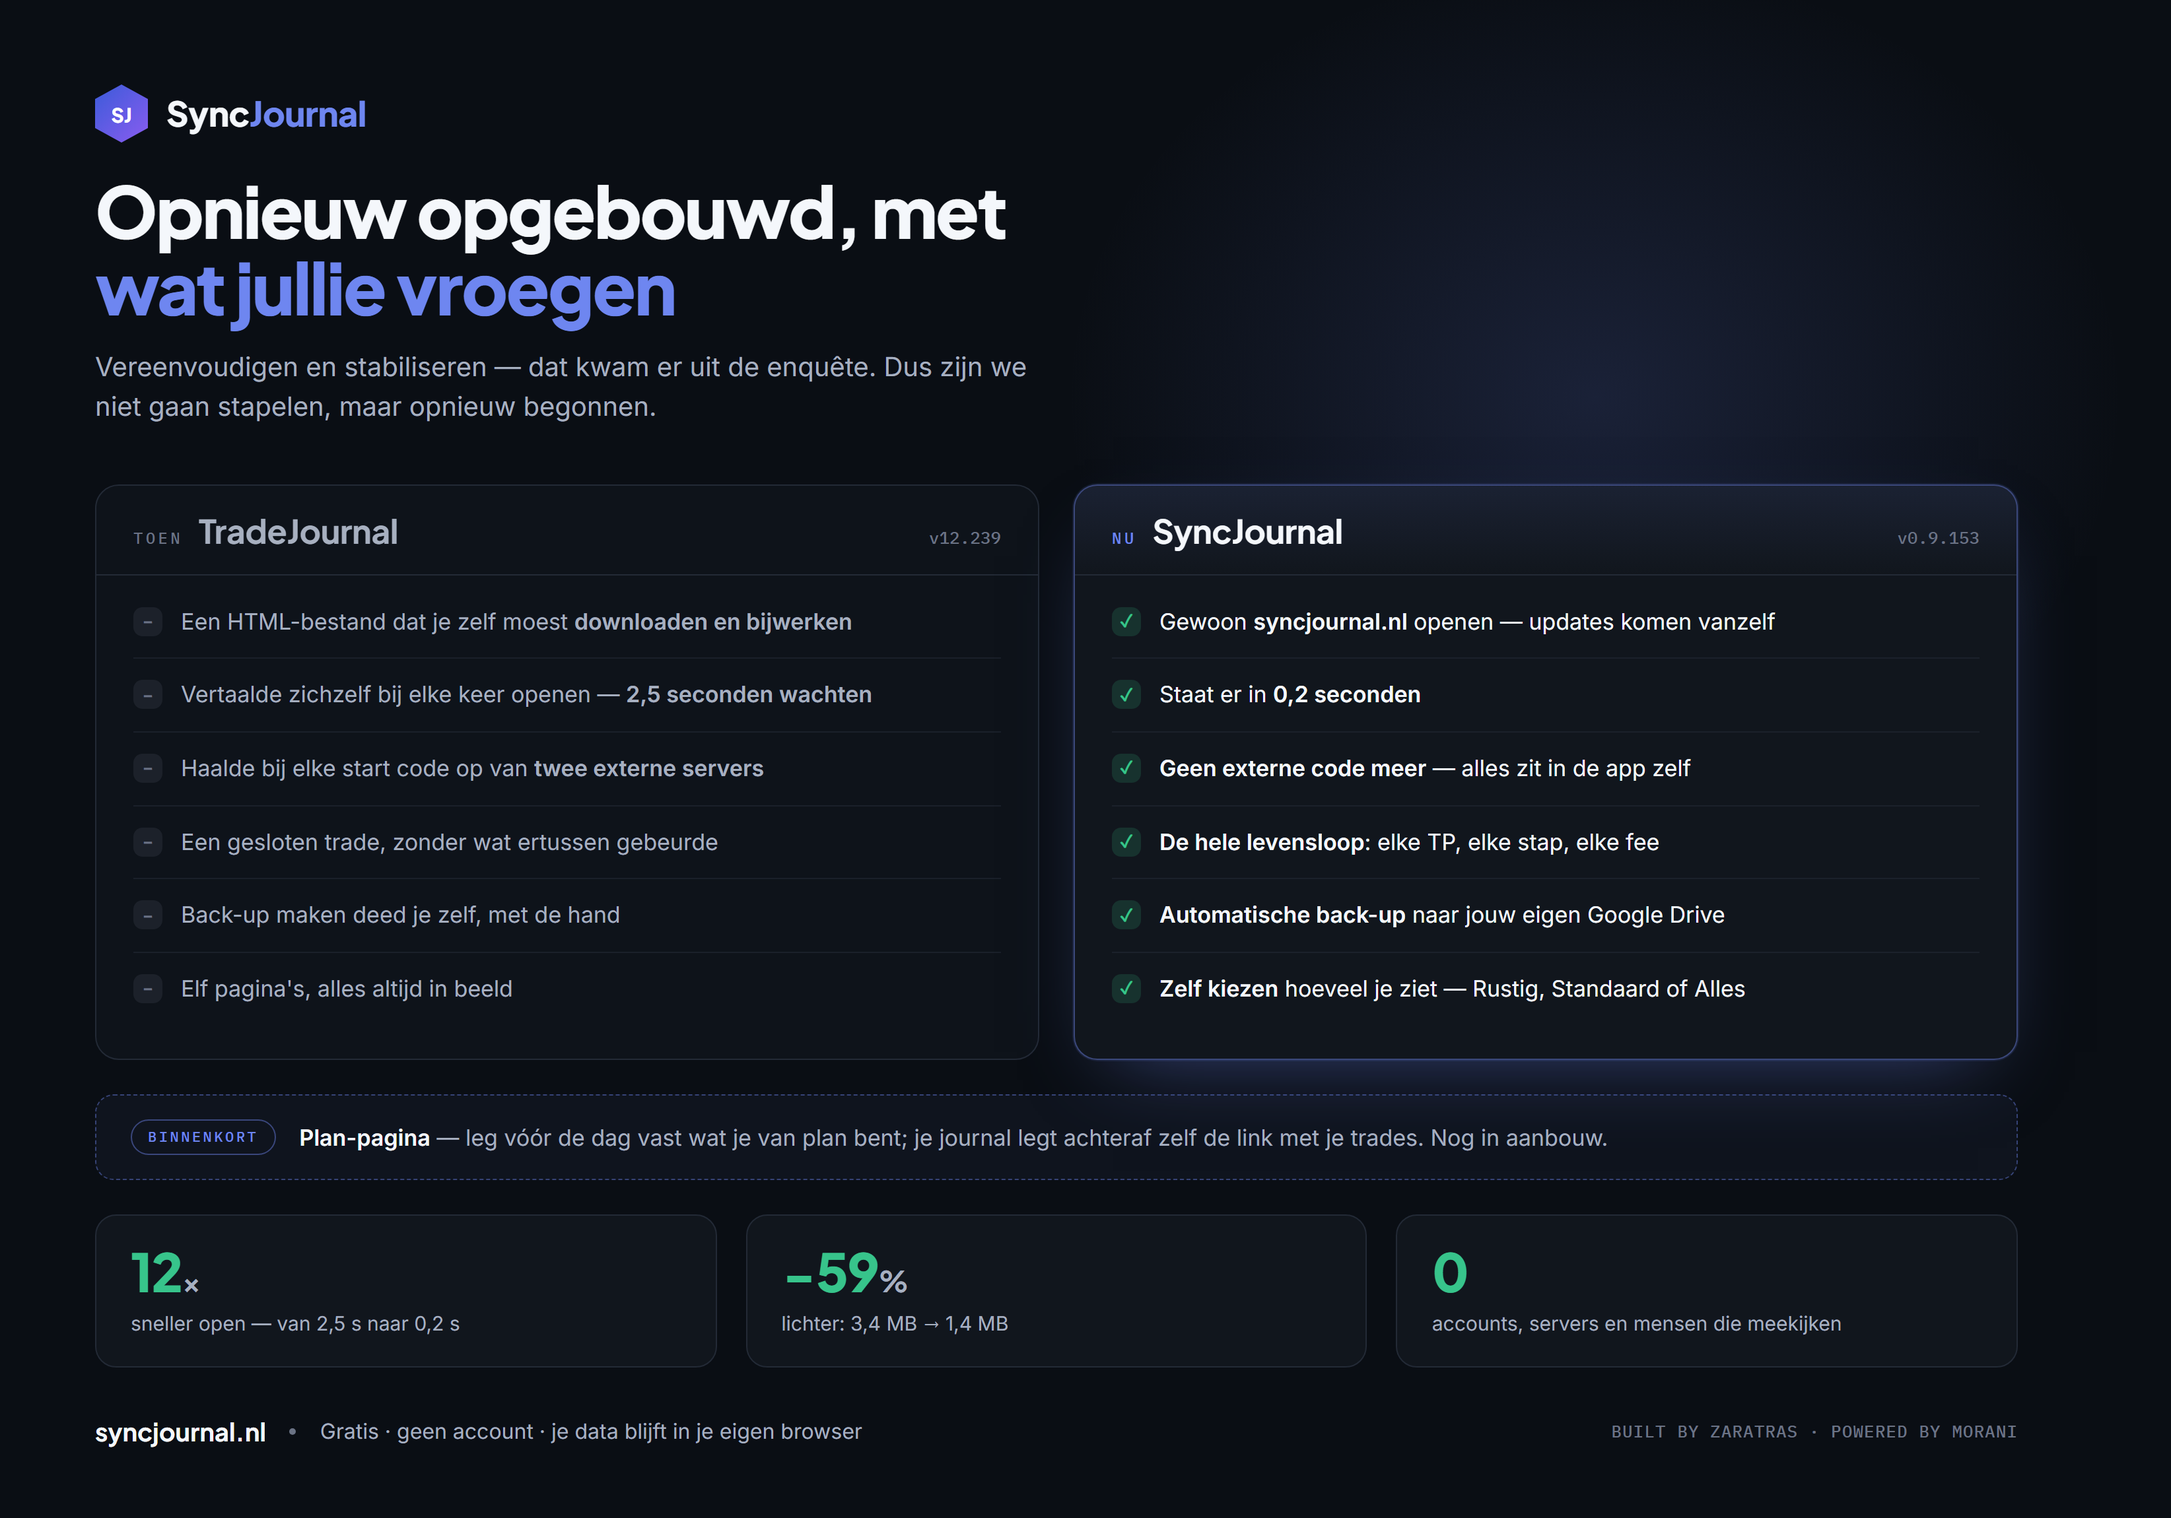
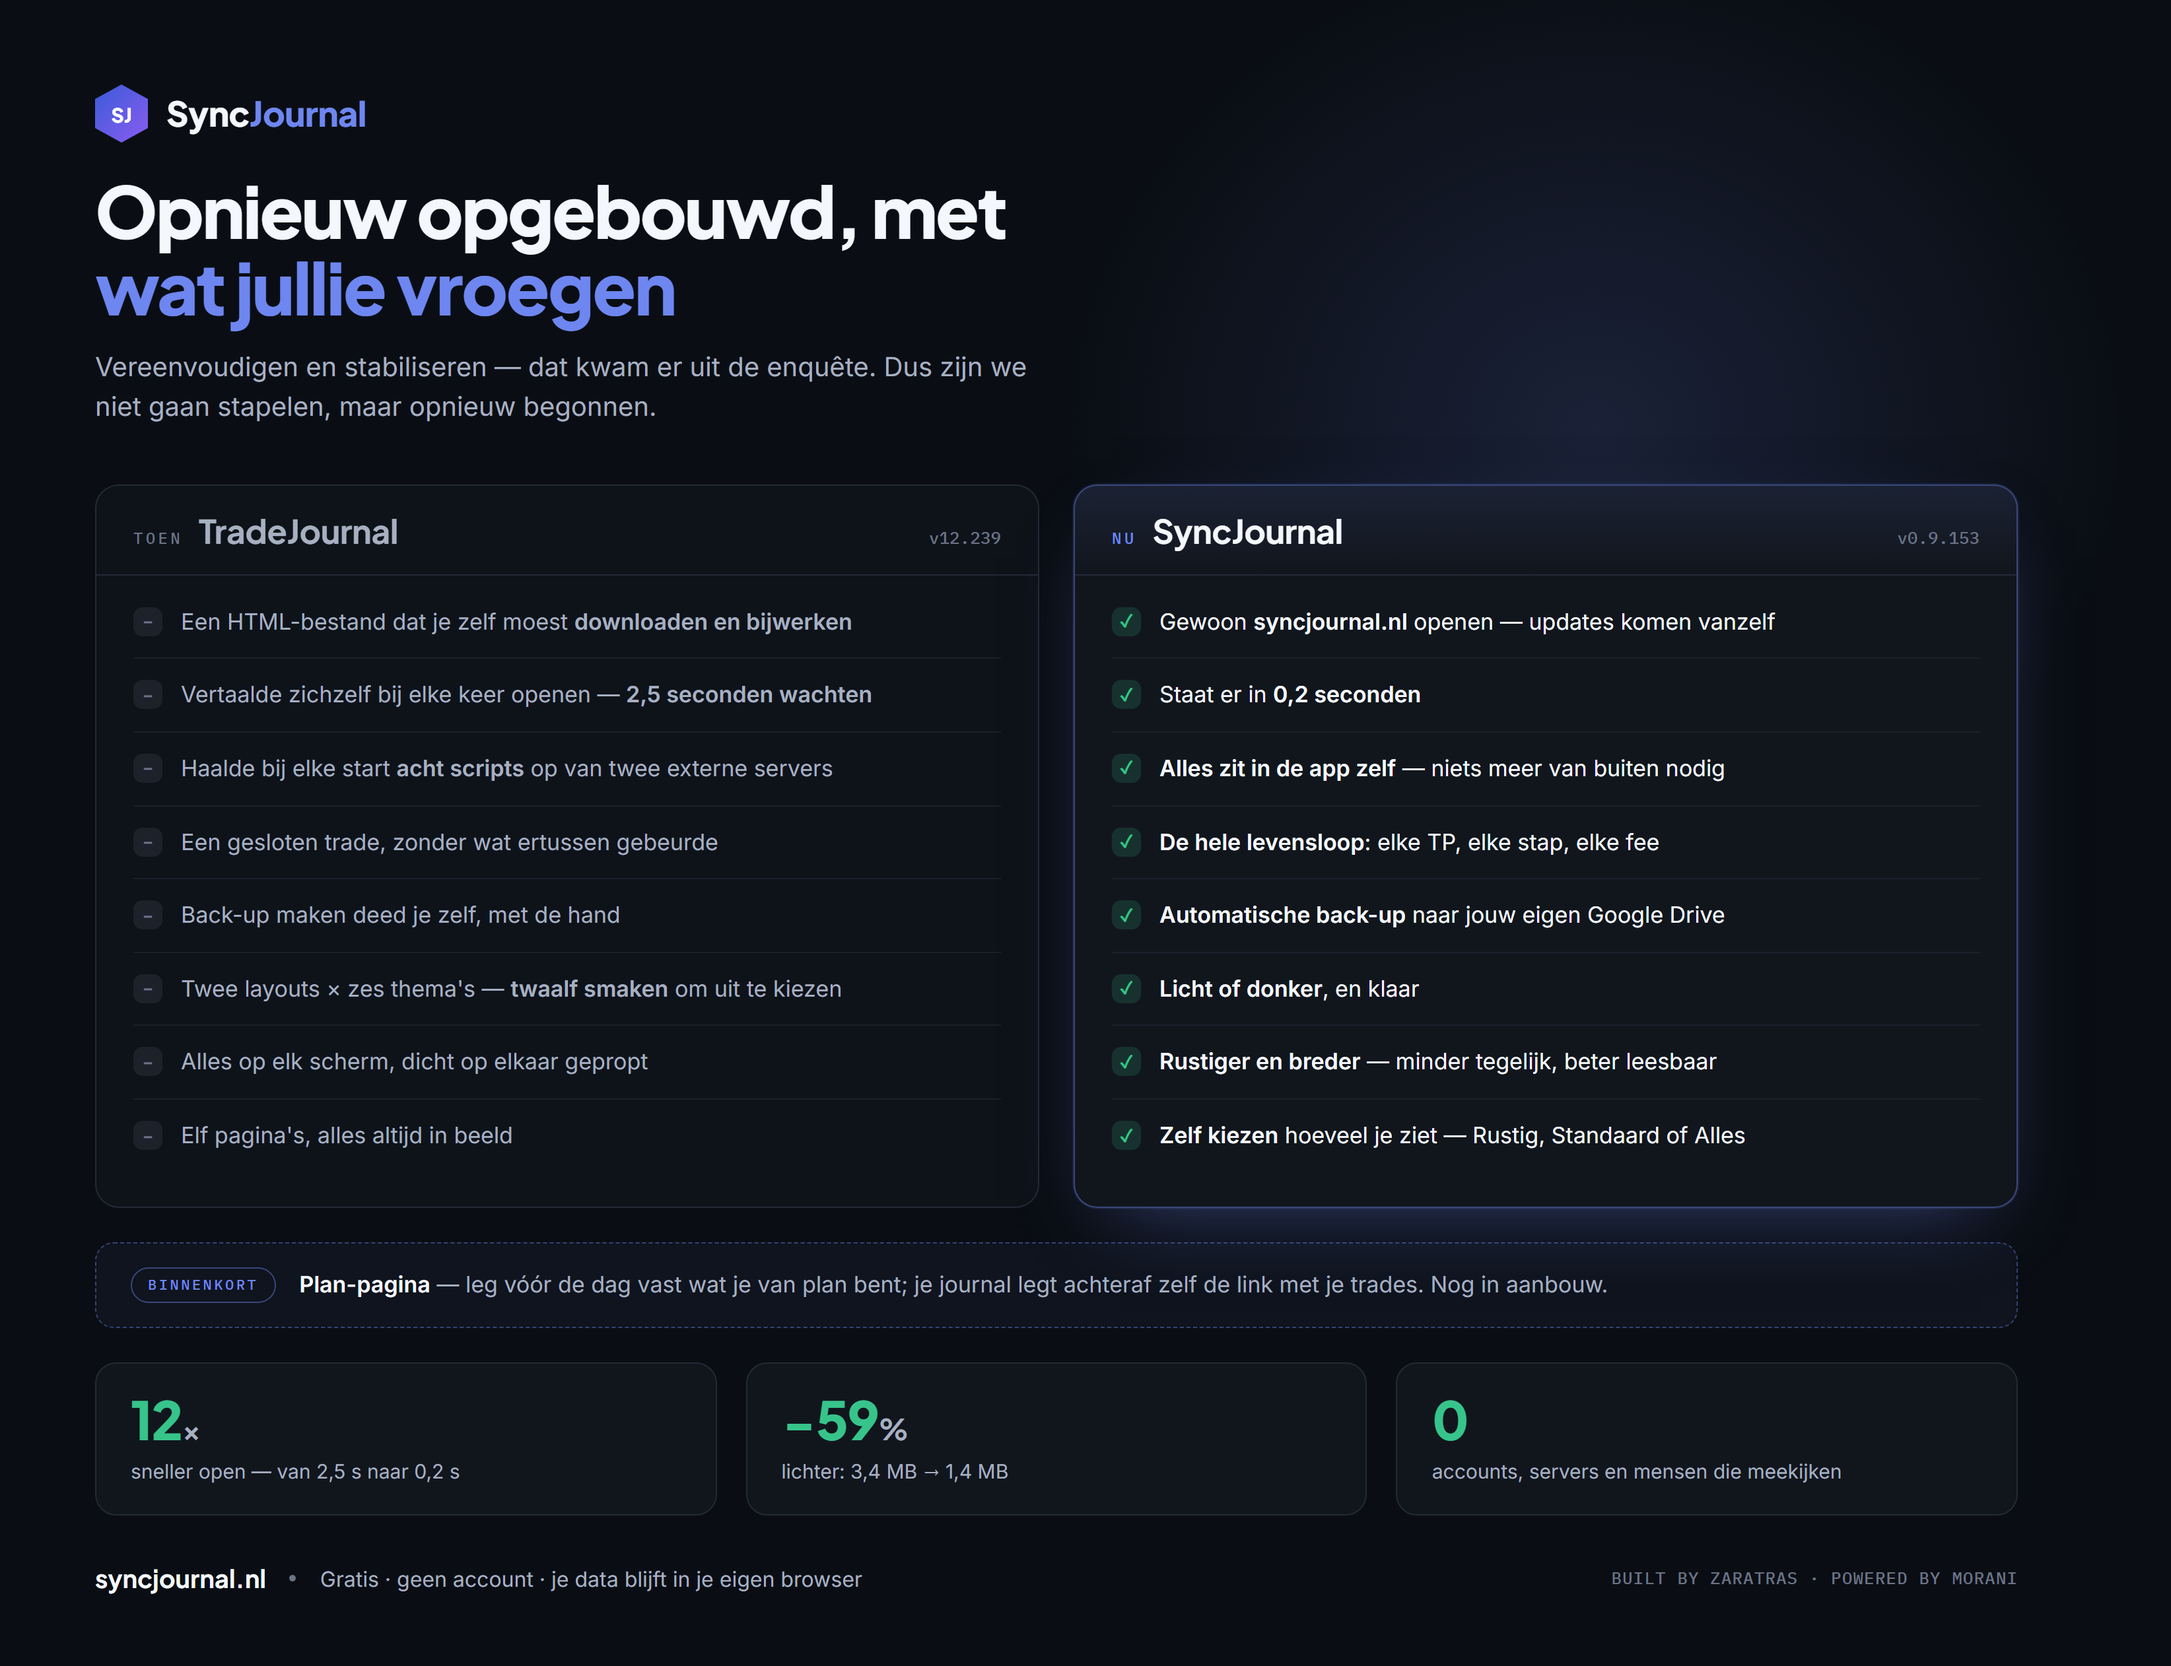
docs: Denny's two additions, and the script count made exact
Two pairs added, both from Denny and both verified against the code:

- Themes. The old journal had layout standard or premium, each with six themes
  (sync, classic, aurora, light, parchment, daylight) -- twelve combinations.
  SyncJournal has setTheme('light') and setTheme('dark'). Framed as a gain rather
  than a loss: twelve flavours versus light or dark, and done.
- Density. Everything on every screen, packed together, versus calmer and wider.
  That one is a design choice rather than a code fact, and it is exactly what the
  survey asked for, so it sits well under the headline.

Also made the dependency line exact. I had written "code from two external servers",
which Denny rightly questioned since the old app is a single HTML file. It is -- and
that single file pulls eight scripts: React, React-DOM, Chart.js, jsPDF, html2canvas
and Babel from cdnjs, xlsx and SortableJS from jsdelivr. Eight to one is a stronger
and more accurate claim than the one I had.

diff --git a/demos/release-vergelijking.html b/demos/release-vergelijking.html
@@ -107,9 +107,11 @@
       <ul>
         <li><span class="ic">–</span><span>Een HTML-bestand dat je zelf moest <b>downloaden en bijwerken</b></span></li>
         <li><span class="ic">–</span><span>Vertaalde zichzelf bij elke keer openen — <b>2,5 seconden wachten</b></span></li>
-        <li><span class="ic">–</span><span>Haalde bij elke start code op van <b>twee externe servers</b></span></li>
+        <li><span class="ic">–</span><span>Haalde bij elke start <b>acht scripts</b> op van twee externe servers</span></li>
         <li><span class="ic">–</span><span>Een gesloten trade, zonder wat ertussen gebeurde</span></li>
         <li><span class="ic">–</span><span>Back-up maken deed je zelf, met de hand</span></li>
+        <li><span class="ic">–</span><span>Twee layouts × zes thema's — <b>twaalf smaken</b> om uit te kiezen</span></li>
+        <li><span class="ic">–</span><span>Alles op elk scherm, dicht op elkaar gepropt</span></li>
         <li><span class="ic">–</span><span>Elf pagina's, alles altijd in beeld</span></li>
       </ul>
     </section>
@@ -123,9 +125,11 @@
       <ul>
         <li><span class="ic">✓</span><span class="toon">Gewoon <b>syncjournal.nl</b> openen — updates komen vanzelf</span></li>
         <li><span class="ic">✓</span><span class="toon">Staat er in <b>0,2 seconden</b></span></li>
-        <li><span class="ic">✓</span><span class="toon"><b>Geen externe code meer</b> — alles zit in de app zelf</span></li>
+        <li><span class="ic">✓</span><span class="toon"><b>Alles zit in de app zelf</b> — niets meer van buiten nodig</span></li>
         <li><span class="ic">✓</span><span class="toon"><b>De hele levensloop</b>: elke TP, elke stap, elke fee</span></li>
         <li><span class="ic">✓</span><span class="toon"><b>Automatische back-up</b> naar jouw eigen Google Drive</span></li>
+        <li><span class="ic">✓</span><span class="toon"><b>Licht of donker</b>, en klaar</span></li>
+        <li><span class="ic">✓</span><span class="toon"><b>Rustiger en breder</b> — minder tegelijk, beter leesbaar</span></li>
         <li><span class="ic">✓</span><span class="toon"><b>Zelf kiezen</b> hoeveel je ziet — Rustig, Standaard of Alles</span></li>
       </ul>
     </section>

diff --git a/docs/discord-release-syncjournal.md b/docs/discord-release-syncjournal.md
@@ -17,6 +17,10 @@ Wat je meteen merkt: hij is **12× sneller open** — 0,2 seconden in plaats van
 meer een bestand te downloaden, want updates komen vanzelf. En je ziet nu **de hele levensloop van
 een positie**: elke TP, elke stap en elke fee, in plaats van alleen het eindresultaat.
 
+Het grootste verschil zie je meteen: waar de oude journal alles op elk scherm propte, is het nu
+**rustiger en breder** — minder tegelijk, beter leesbaar. En in plaats van twee layouts met elk zes
+thema's is het simpelweg **licht of donker**.
+
 Nieuw is ook de **Google Drive-koppeling**: de app maakt een map *SyncJournal* in **jouw** Drive en
 zet daar automatisch je backups neer — wij kunnen daar niet bij. Daarmee is je journal niet langer
 alleen je browser, en kun je op een andere computer verder waar je gebleven was.
@@ -74,7 +78,8 @@ Morgenavond loop ik het live met jullie door. 📓
 |---|---|
 | 12× sneller (2,5 s → 0,2 s) | Gemeten 28-09-2026 met Playwright, beide apps, netwerk aan, twee metingen per app |
 | 3,4 MB → 1,4 MB | Bestandsgrootte `work/tradejournal.html` en `work/syncjournal.html` |
-| Geen externe code meer nodig | Oud: scripts van jsdelivr én cdnjs. Nieuw: alleen jsdelivr voor `xlsx`, met `defer` — niet nodig om te starten |
+| Acht externe scripts → één | Oud: React, React-DOM, Chart.js, jsPDF, html2canvas, Babel (cdnjs) + xlsx, SortableJS (jsdelivr). Nieuw: alleen `xlsx`, met `defer` — niet nodig om te starten |
+| Twaalf smaken → twee | Oud: `layout` is `standard` of `premium`, elk met zes thema's (sync, classic, aurora, light, parchment, daylight). Nieuw: `setTheme('light')` / `setTheme('dark')` |
 | Nieuw: Google Drive-backup | 10 treffers + OAuth in SyncJournal, 1 losse vermelding zonder koppeling in de oude |
 | Nieuw: levensloop per positie | "levensloop" 0× in de oude, 38× in SyncJournal; "executie-stappen" 0× tegen 3× |
 | Niet meegekomen | Doelen, milestones, mindset, pre-trade, deelkaarten — in de oude app aanwezig, in SyncJournal nul voorkomens |
